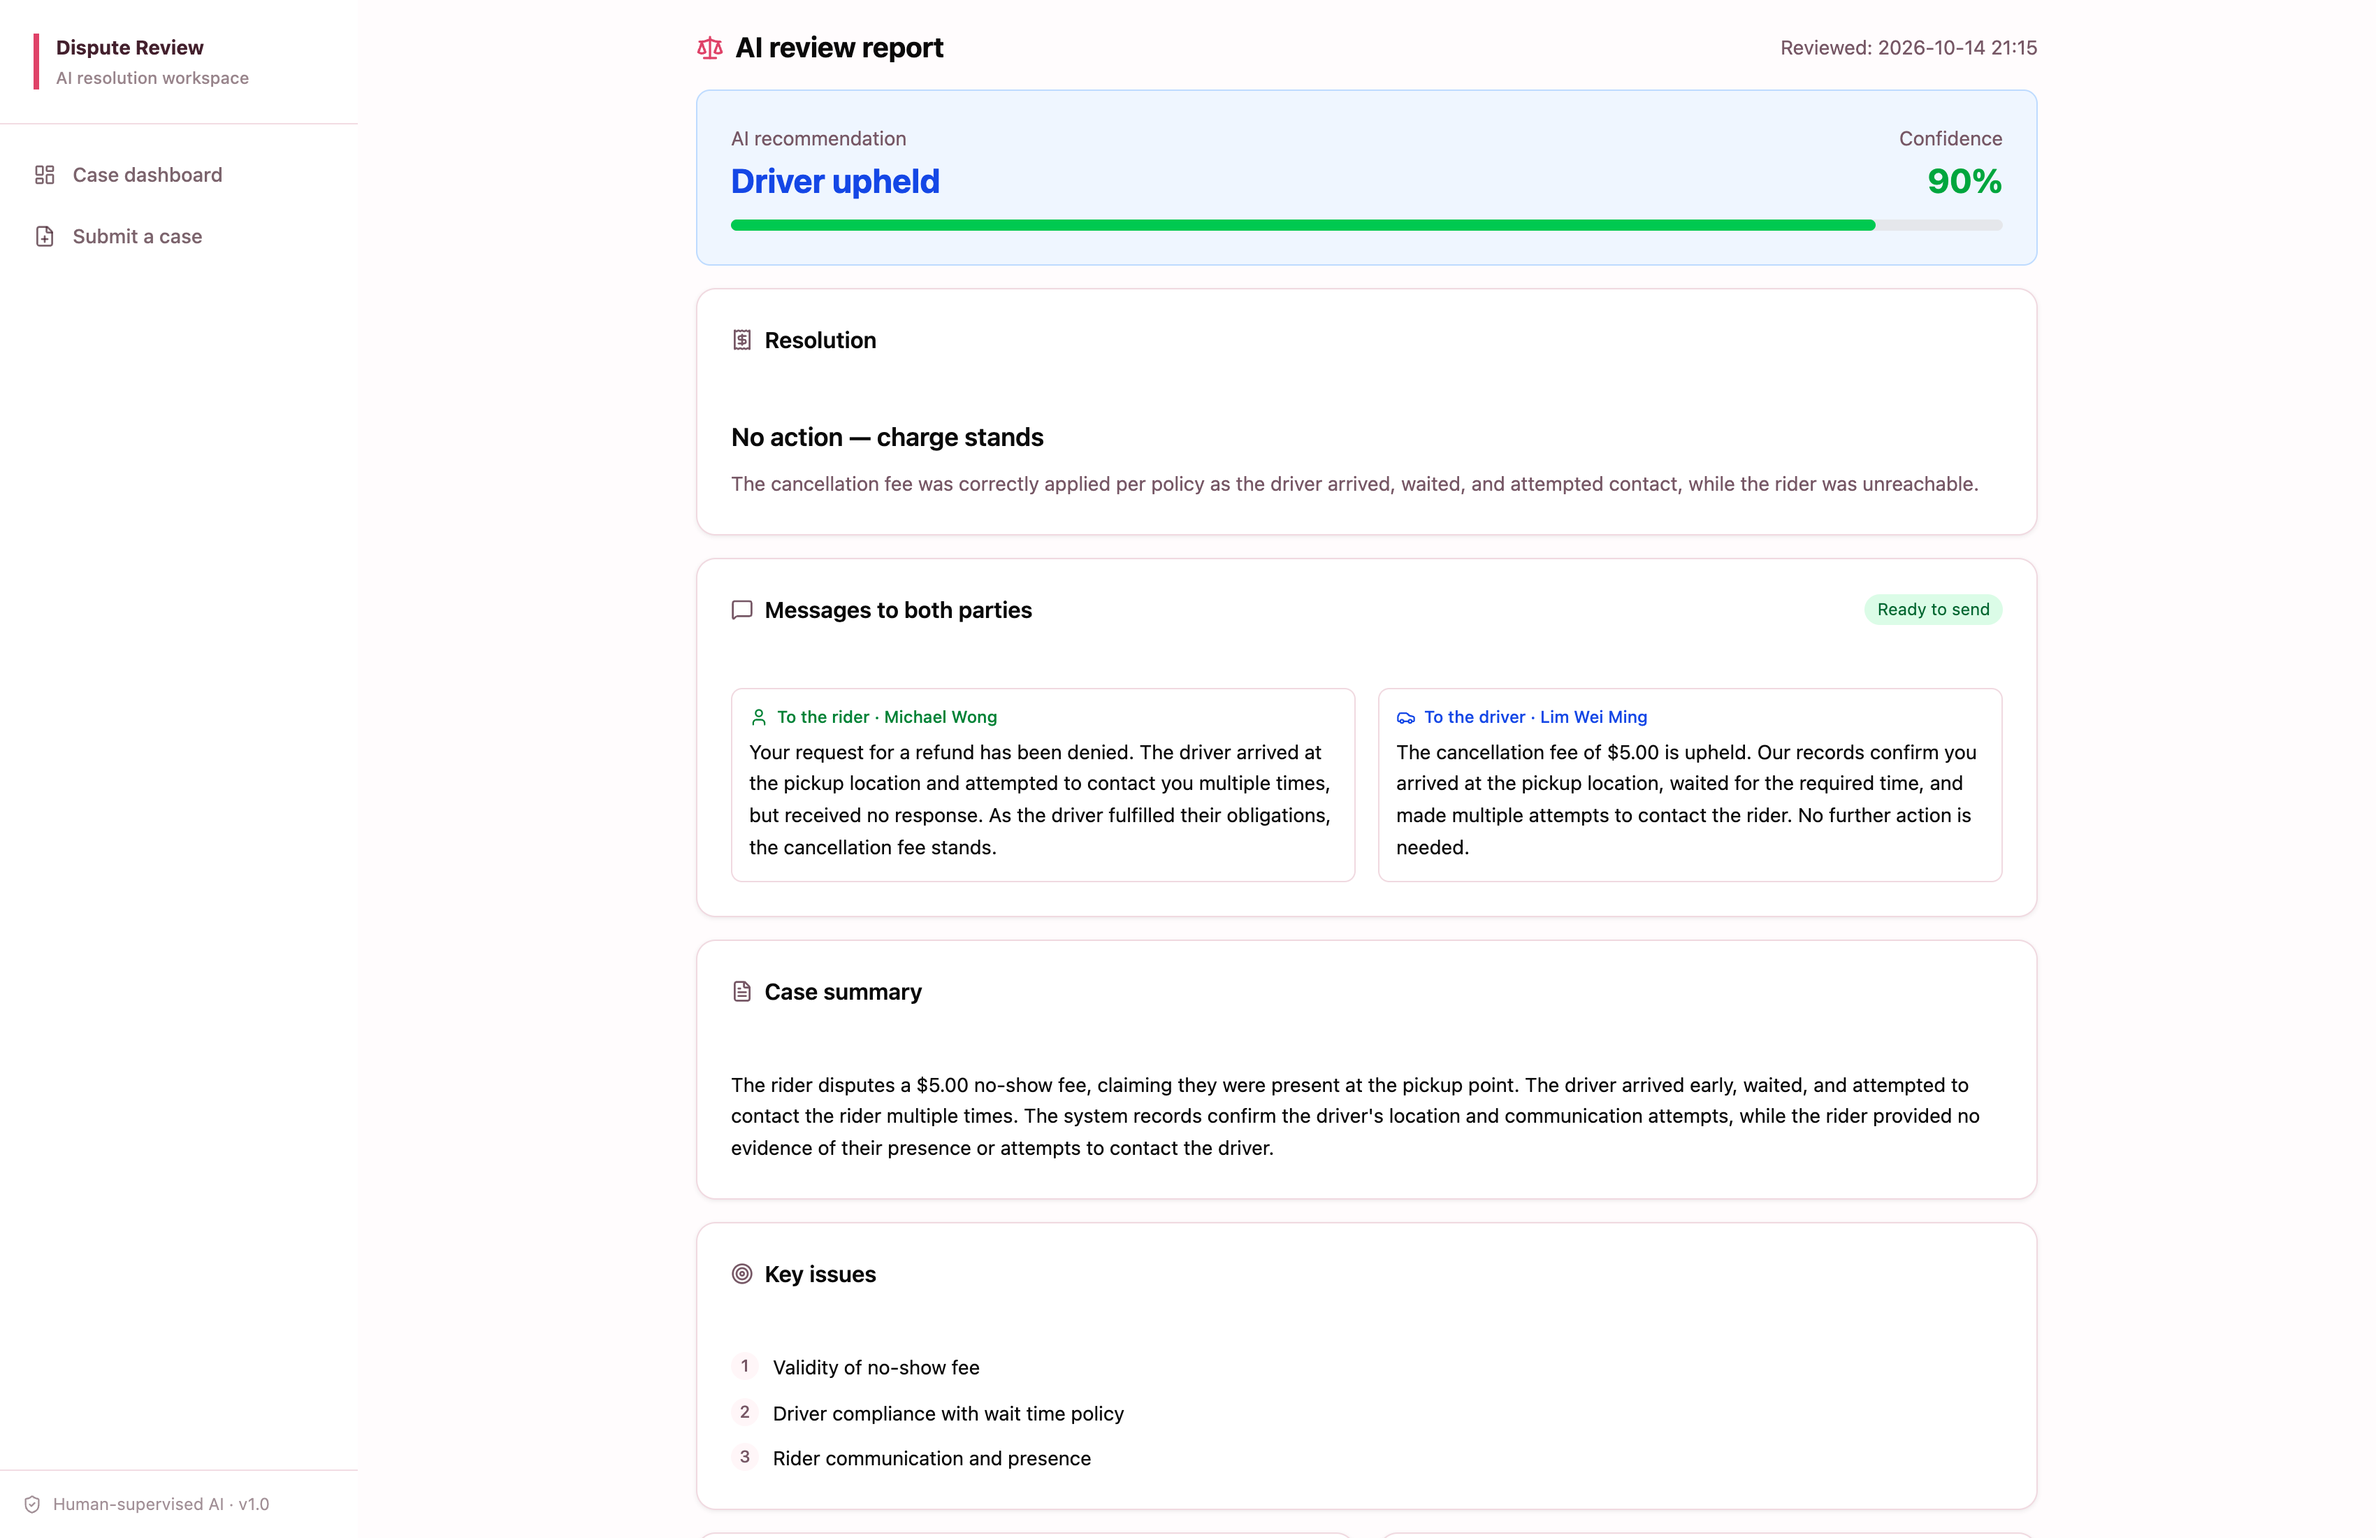
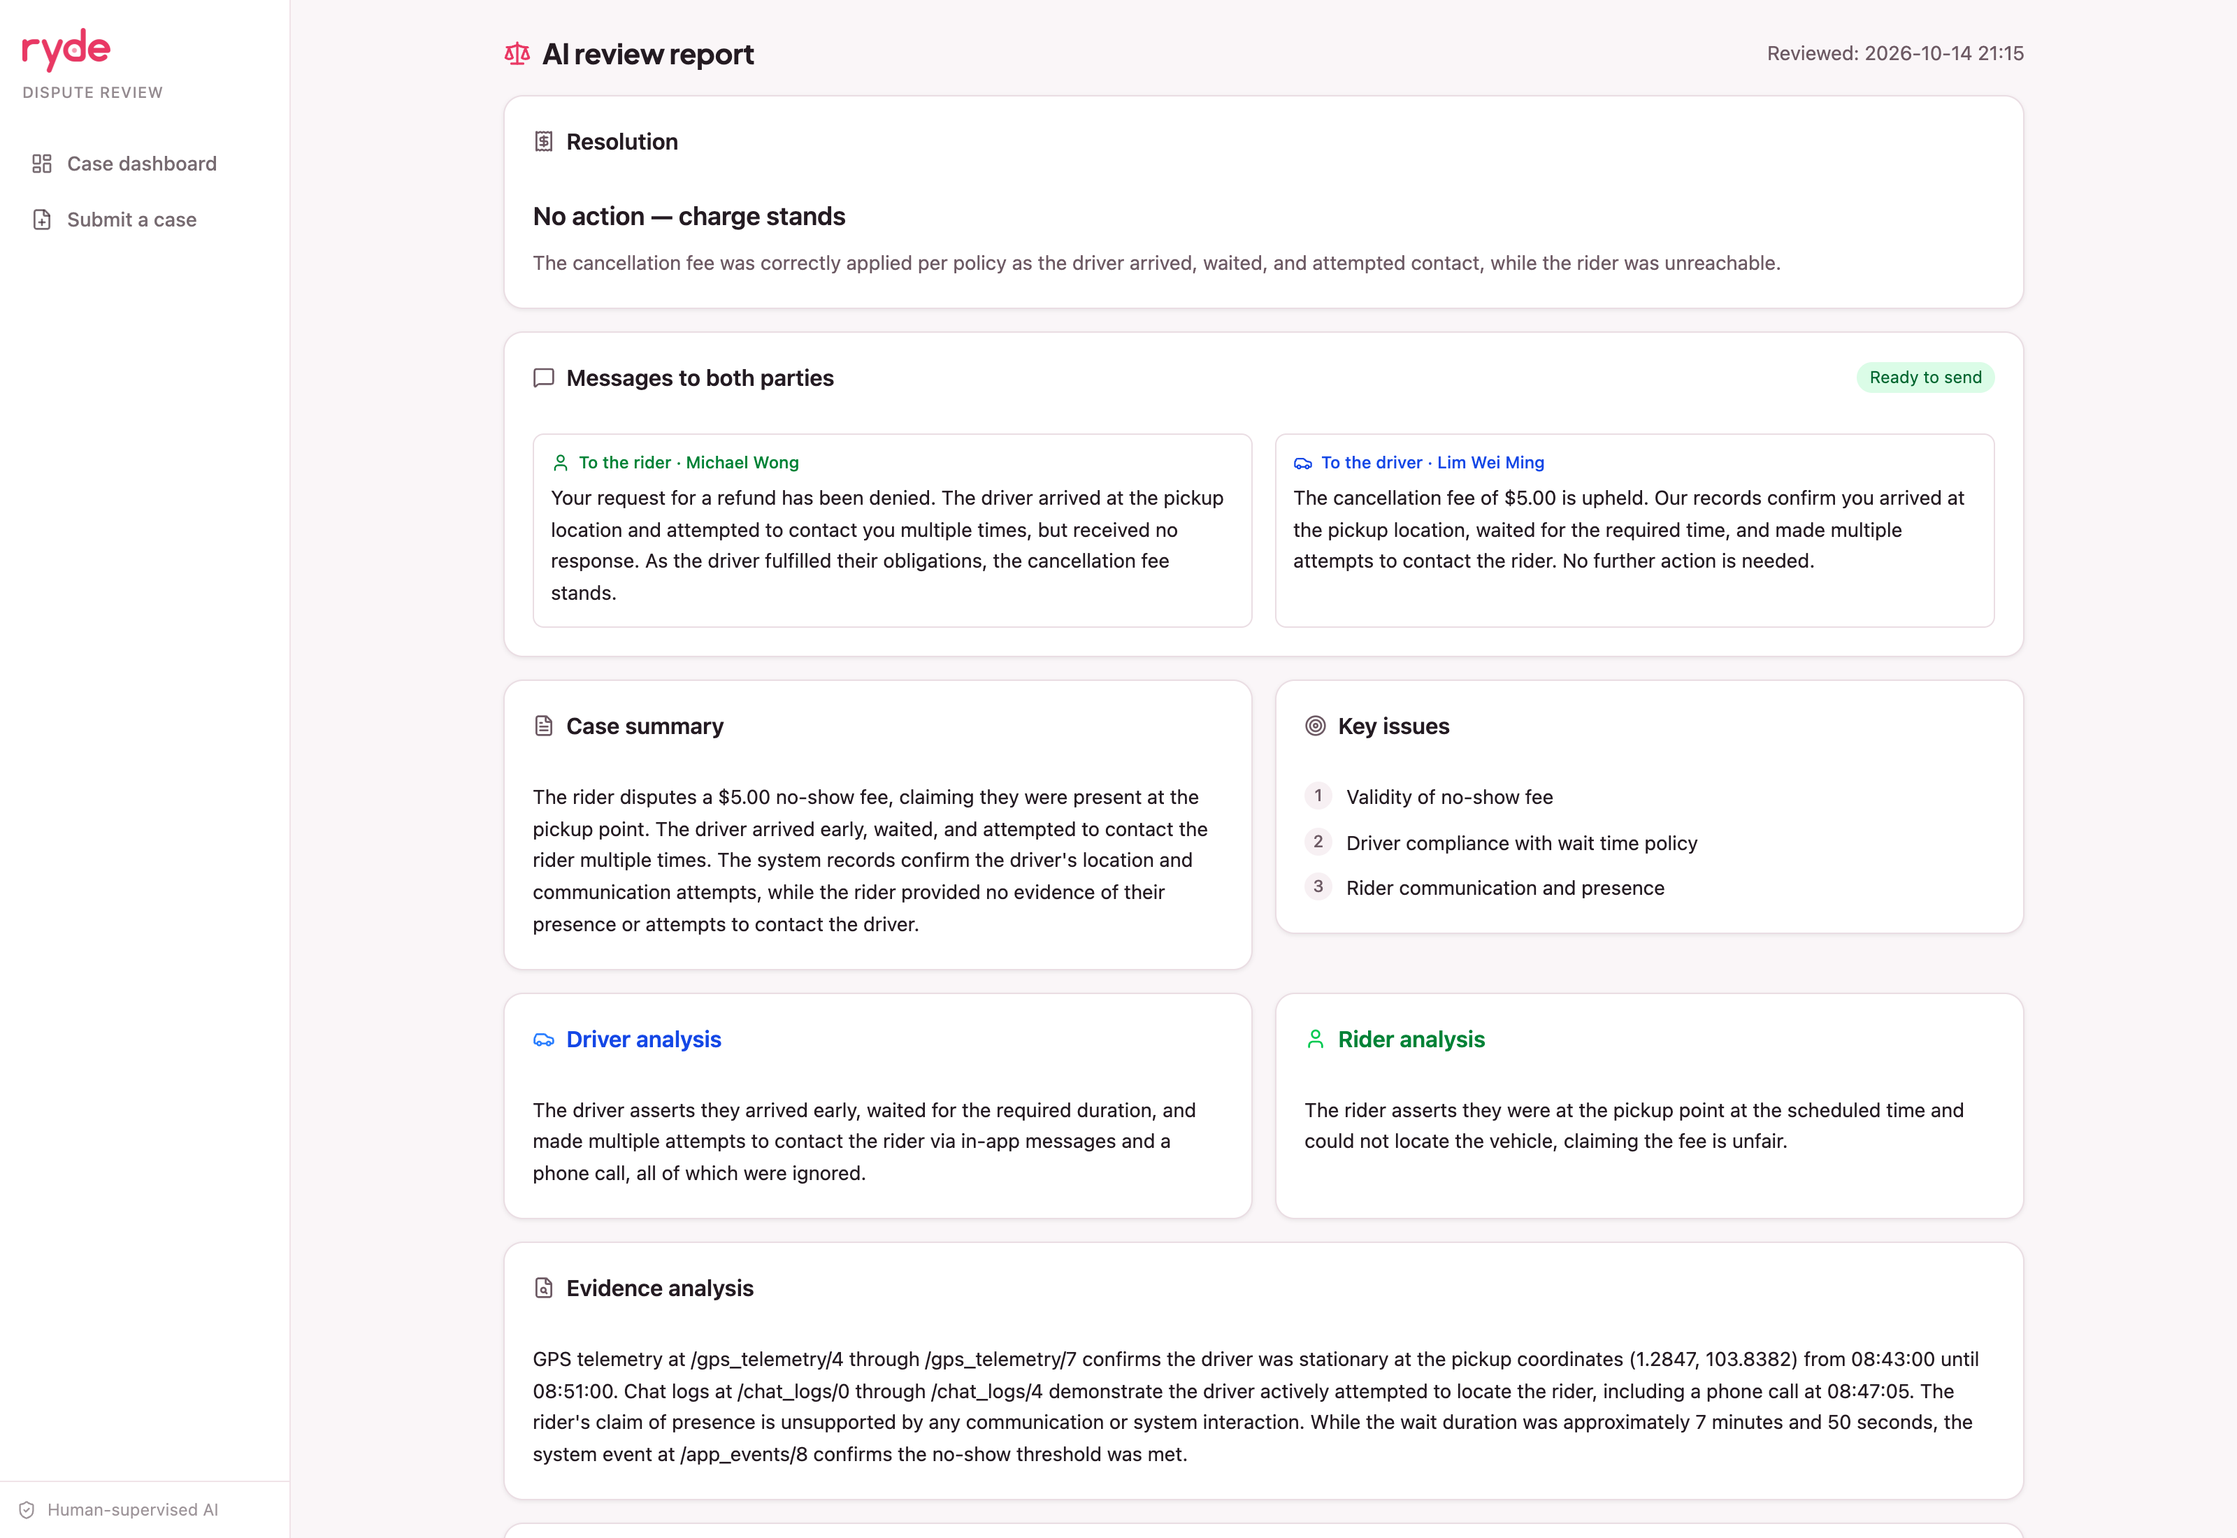
Add repository README; refresh app screenshots and report references

diff --git a/README.md b/README.md
@@ -1,0 +1,75 @@
+# RydeResolve
+
+**Multi-agent AI that resolves ride-hailing disputes fairly and fast.**
+
+Submission for the Tencent Cloud AI Singapore Hackathon 2026 · Digital Native Track · *Multi-Agent Autonomous Dispute Resolution System* (Ryde).
+
+![Architecture](report/architecture.png)
+
+## The problem
+
+Ride-hailing platforms handle thousands of rider–driver disputes a day. According to the hackathon brief, manual review takes **24–72 hours per dispute**, costs a lot in support hours, gives **inconsistent rulings**, and drives users away. A human reviewer has to cross-check GPS traces, chat logs, app events, fare breakdowns and company policy by hand.
+
+## What RydeResolve does
+
+A reviewer submits a case (or imports a dataset) with evidence from the driver, the rider and the platform. A pipeline of agents then reviews it:
+
+1. **Prioritization Agent** assigns a priority and a response-time target.
+2. **Evidence Validation Agent** checks the record and computes route measurements (distance, off-route points, unexpected stops, fare arithmetic) with ordinary code, so the agents cite measured numbers instead of guessing.
+3. **Rider Advocate** and **Driver Advocate** run in parallel. Each argues one side from the same record and cites exact evidence paths.
+4. **Judge** must answer a mandatory checklist, then rules with a structured resolution (action, amount, recipient) and plain-language notices for both parties.
+5. **Confidence gate:** at 60% confidence or above the case is resolved automatically. Below that, or when the Judge is inconclusive, it goes to a human reviewer with the full agent transcript.
+6. **Learning feedback:** when a reviewer overrides the AI and marks the decision as a precedent, the Judge sees it as a calibration example on similar cases. No model fine-tuning is involved.
+
+Everything the agents say to each other is visible in the case page, so a reviewer can see how the ruling was reached.
+
+**Dispute types handled:** route deviation, no-show charge, property damage, safety incident. Two are demonstrated end to end with sample datasets: DISP-003 (route deviation) and DISP-002 (no-show).
+
+## Screenshots
+
+| Rider vs driver advocates | Resolution and notices to both parties |
+|---|---|
+| ![Advocates](proof/screenshots/05-app-disp003-rider-vs-driver-advocates.png) | ![Resolution](proof/screenshots/06-app-disp003-resolution-and-party-messages.png) |
+| **Human decision form** | **Dashboard: review queue and sortable case list** |
+| ![Human decision](proof/screenshots/10-app-human-decision-form.png) | ![Dashboard](proof/screenshots/13-app-dashboard-overview.png) |
+
+More screenshots are in [`proof/screenshots/`](proof/screenshots/).
+
+## Tech stack
+
+- **Frontend:** React 19, Vite, TanStack Query, shadcn/ui, Tailwind CSS 4 (port 5173)
+- **Backend:** Node.js, Express, TypeScript, Zod (port 3000, API under `/api`)
+- **Agents:** LangGraph workflow in `dispute-review-agent/backend/src/modules/dispute/agents/`
+- **LLM:** Google Gemini (free tier) or Tencent TokenHub, chosen by environment variable
+
+## Run it locally
+
+You need Node.js 20 or newer and an LLM key (Gemini or TokenHub).
+
+```bash
+cd dispute-review-agent/backend
+cp .env.example .env        # then put your key in .env (GEMINI_API_KEY or TOKENHUB_API_KEY)
+npm install
+npm run dev                 # http://localhost:3000
+```
+
+```bash
+cd dispute-review-agent/frontend
+npm install
+npm run dev                 # http://localhost:5173
+```
+
+Open http://localhost:5173, choose **Submit a case**, load a sample dataset (DISP-002 or DISP-003), then open the case and run the review. Without a key the agents fail safely and the case stays pending.
+
+**Good to know:** cases are kept in memory and reset when the backend restarts. A single review makes three LLM calls and takes from about 15 seconds to a few minutes on the free tier. Model output varies between runs, so a borderline case such as DISP-002 sometimes resolves automatically and sometimes escalates to a human.
+
+## Documents
+
+- Full submission report: [`report/SUBMISSION.md`](report/SUBMISSION.md)
+- Paste-ready form text: [`report/FORM_FIELDS.md`](report/FORM_FIELDS.md)
+- Developer README (API, agents, knowledge base): [`dispute-review-agent/README.md`](dispute-review-agent/README.md)
+- Proof of CodeBuddy and WorkBuddy usage: [`proof/`](proof/)
+
+## How it was built
+
+Built with WorkBuddy and CodeBuddy, assisted by GPT, Gemini, Codex and Claude. The running system uses Gemini or TokenHub as its model. Details are in section 7 of the report.

diff --git a/report/SUBMISSION.md b/report/SUBMISSION.md
@@ -411,6 +411,6 @@ Items marked **TO ADD** depend on teammates or on final screenshots and are inte
 | Which tool wrote the core agents | Done: WorkBuddy and CodeBuddy, assisted by GPT, Gemini, Codex and Claude (as stated by the team) | Section 7 |
 | CodeBuddy / WorkBuddy conversation history | Done: exported CodeBuddy chat (code-review session) | `proof/Review the recent changes in …json` |
 | At least 3 chat screenshots from CodeBuddy / WorkBuddy | Done: two CodeBuddy screenshots and one WorkBuddy page capture (PDF) | `proof/screenshots/` |
-| Application screenshots | Done: DISP-003 (auto-resolved, S$12.40 refund) and DISP-002 (no-show) each as case overview, rider-vs-driver advocates, and resolution with party messages; the human-decision form; the dashboard sorted by priority; the submit page | `proof/screenshots/04-…` to `12-…` |
+| Application screenshots | Done: DISP-003 (auto-resolved, S$12.40 refund) and DISP-002 (no-show) each as case overview, rider-vs-driver advocates, and resolution with party messages; the human-decision form; the dashboard (review queue, and sorted by priority); the submit page | `proof/screenshots/04-…` to `13-…` |
 | Demo video, 5–8 minutes (optional) | **TO ADD** | — |
 | Live project link (optional, earns bonus points) | **TO ADD** | — |
